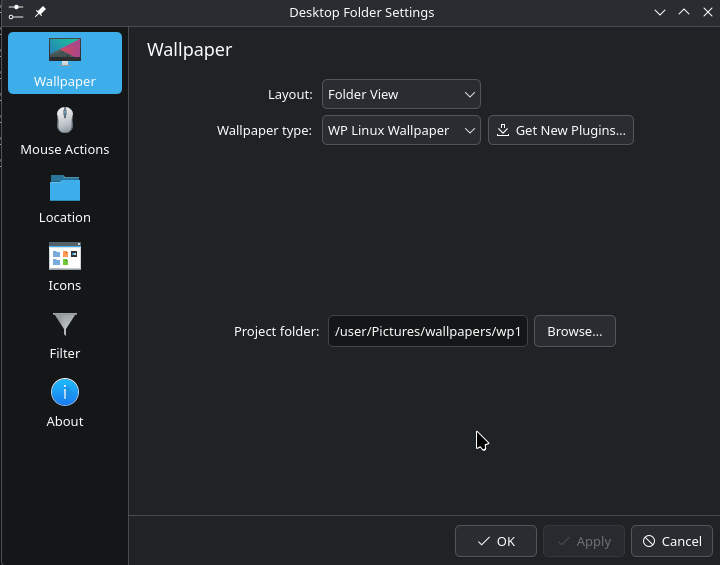
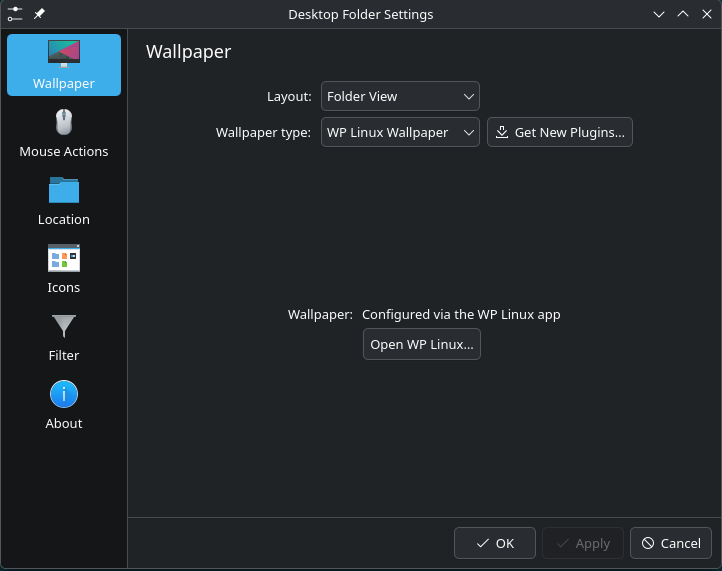
update readme

diff --git a/README_RU.md b/README_RU.md
@@ -15,6 +15,7 @@
 ## Скриншоты
 
 <p align="center">
+  <img src="assets/main_window.png" alt="Главное окно в котором можно применить обои к рабочему столу. " width="49%">
   <img src="assets/editor.png" alt="Сборка стека слоёв в редакторе WP Linux, слева -- живое GPU-превью" width="49%">
   <img src="assets/KDE_settings.png" alt="Выбор WP Linux Wallpaper в системных настройках KDE" width="49%">
 </p>

diff --git a/README.md b/README.md
@@ -14,6 +14,7 @@ small GPU-accelerated editor, then run it as your desktop wallpaper.
 ## Screenshots
 
 <p align="center">
+  <img src="assets/main_window.png" alt="The main window where you can apply a wallpaper to the desktop. " width="49%">
   <img src="assets/editor.png" alt="Building a layer stack in the WP Linux editor, with the live GPU preview on the left" width="49%">
   <img src="assets/KDE_settings.png" alt="Picking WP Linux Wallpaper in KDE System Settings" width="49%">
 </p>
